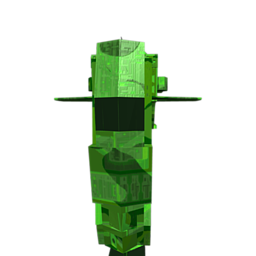
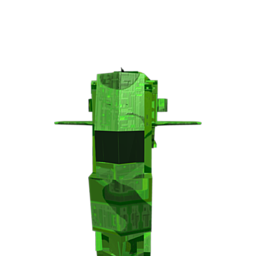
Re-rendered, added proper target. Fixed minor dialogue issue.

Changed region(s): [[0.1875, 0.125, 0.8125, 1.0]]

diff --git a/src/player.c b/src/player.c
@@ -2630,16 +2630,16 @@ static int player_parse( xmlNodePtr parent )
    } while (xml_nextNode(node));
 
    /* Handle cases where ship is missing. */
-   if (player == NULL) {
+   /*if (player == NULL) {
       if (player_nstack == 0) {
          WARN("Player has no ships!");
          return -1;
-      }
+      }*/
 
       /* Just give player a random ship in the stack. */
-      player = &player_stack[player_nstack-1];
-      player_nstack--1;
-   }
+      /*player = &player_stack[player_nstack-1];
+      player_nstack--1;*/
+   /*}*/
 
    /* set global thingies */
    player->credits = player_credits;
